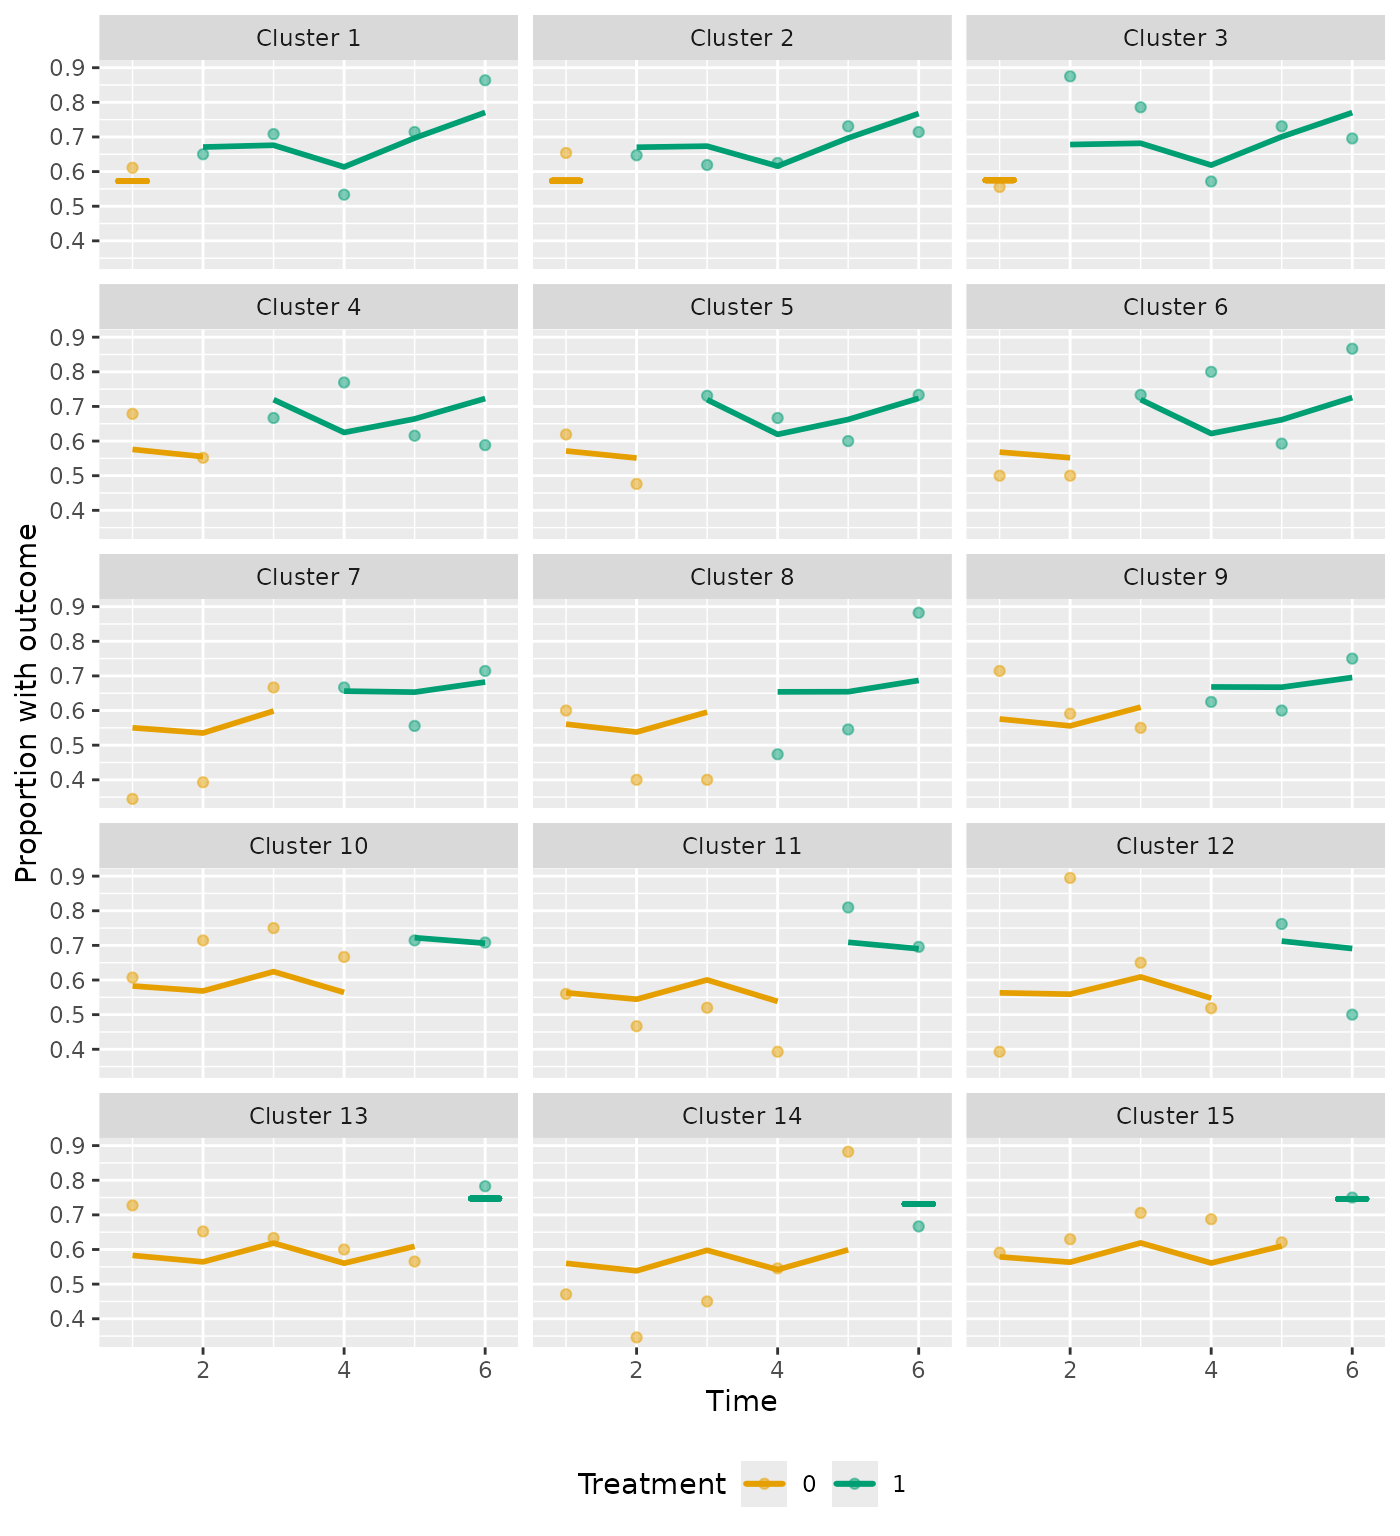
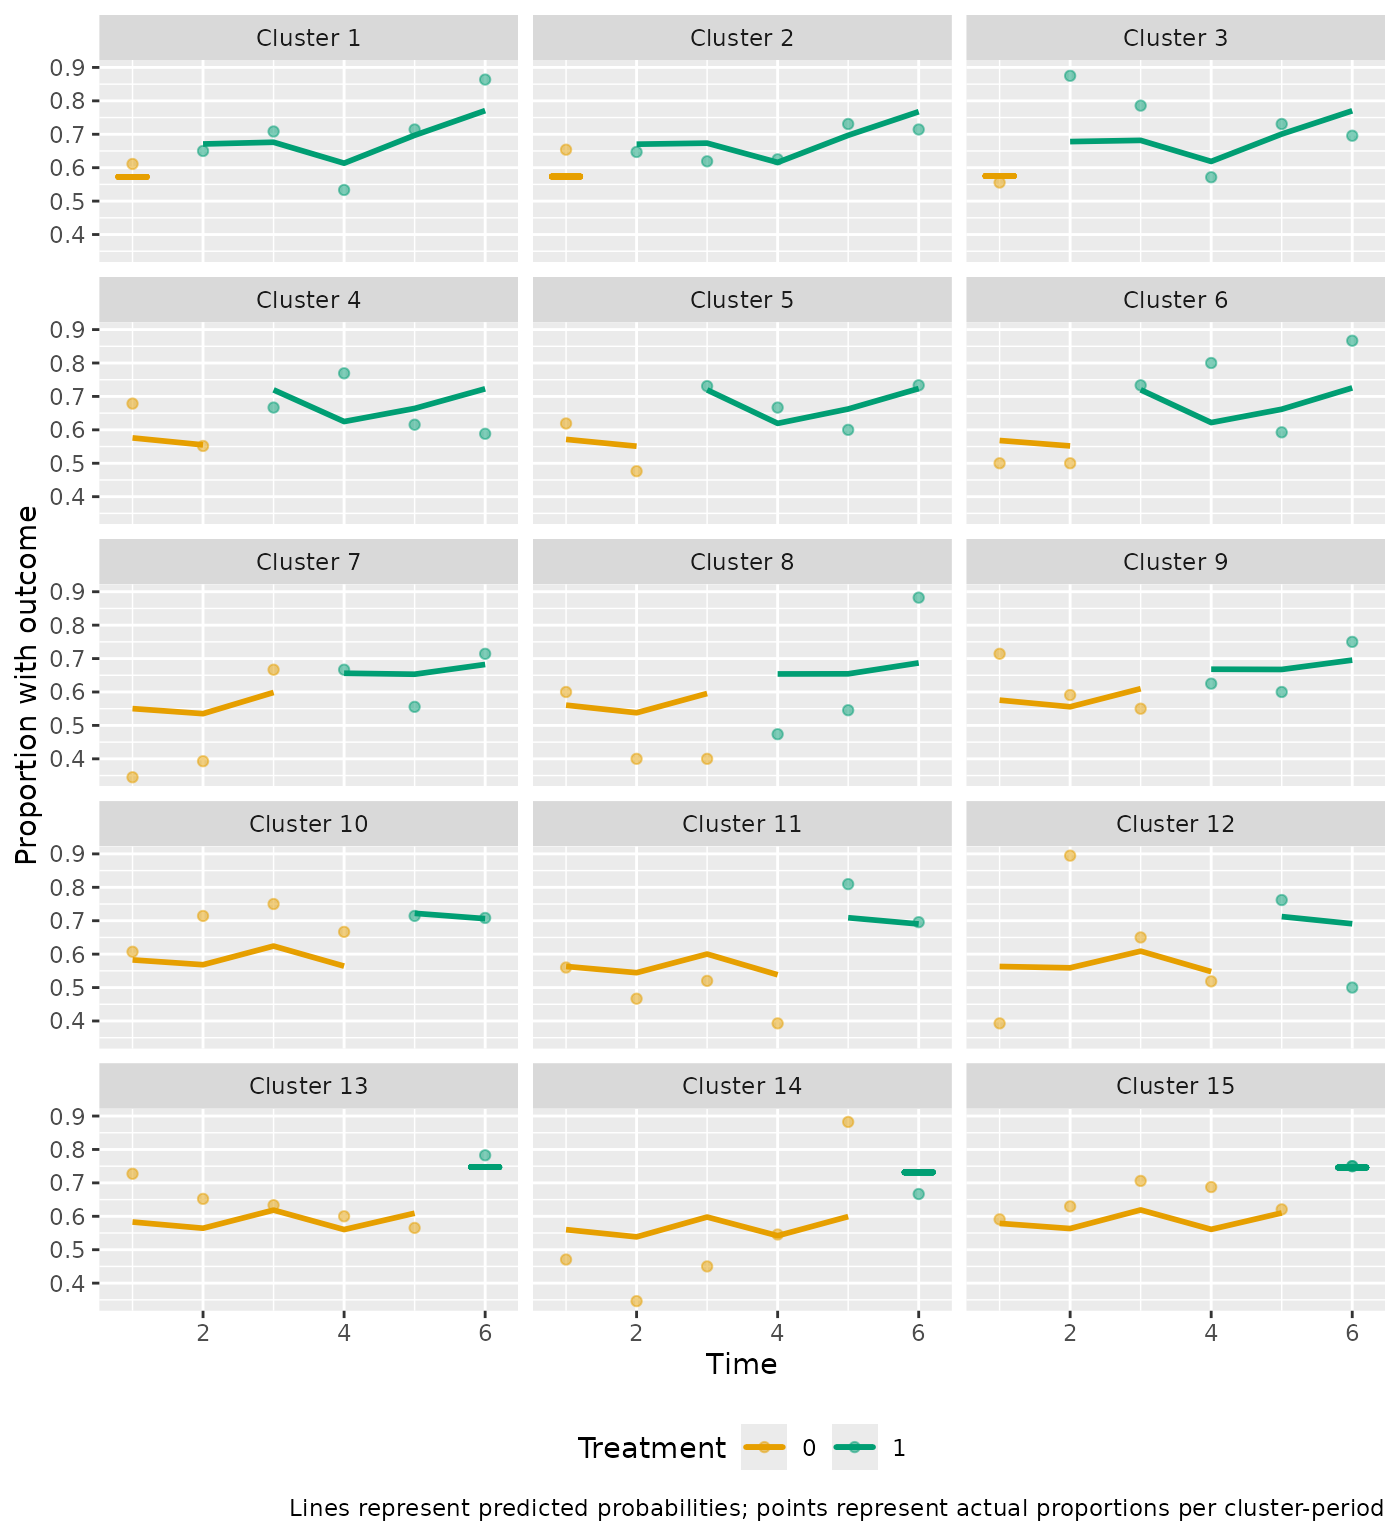
Deploying to gh-pages from @ Avi-Kenny/steppedwedge@5fe222aee5b80e26240983d2ed9492e8cd2cc35d 🚀

diff --git a/articles/steppedwedge.html b/articles/steppedwedge.html
@@ -204,7 +204,7 @@ estimand, using a Natural Cubic Splines (NCS) model.</p>
 <span><span class="co">#&gt; Exp time: "NCS", cal time: "categorical"</span></span>
 <span><span class="co">#&gt; TATE estimate: 0.421</span></span>
 <span><span class="co">#&gt; TATE 95% confidence interval: 0.104, 0.738</span></span>
-<span><span class="co">#&gt; TATE p-value: 0.0092387</span></span>
+<span><span class="co">#&gt; TATE p-value: 0.0092477</span></span>
 <span><span class="co">#&gt; Converged: TRUE</span></span></code></pre></div>
 <div class="section level3">
 <h3 id="continuous-outcome">Continuous outcome<a class="anchor" aria-label="anchor" href="#continuous-outcome"></a>

diff --git a/articles/steppedwedge.md b/articles/steppedwedge.md
@@ -162,7 +162,7 @@ print(analysis_4)
 #> Exp time: "NCS", cal time: "categorical"
 #> TATE estimate: 0.421
 #> TATE 95% confidence interval: 0.104, 0.738
-#> TATE p-value: 0.0092387
+#> TATE p-value: 0.0092477
 #> Converged: TRUE
 ```
 